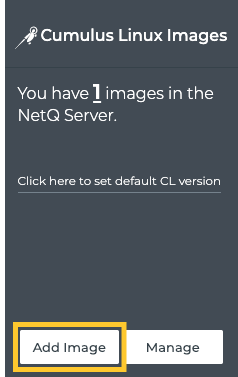
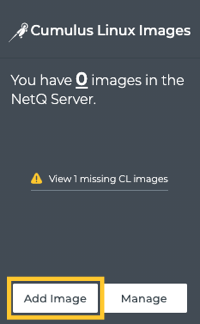
Update access and image import sections

diff --git a/content/cumulus-netq-31/Cumulus-NetQ-Admin-User-Guide/Lifecycle-Management.md b/content/cumulus-netq-31/Cumulus-NetQ-Admin-User-Guide/Lifecycle-Management.md
@@ -11,12 +11,10 @@ LCM enables you to:
 - Manage Cumulus Linux and Cumulus NetQ images in a local repository
 - Configure switch access credentials (required for installations and upgrades)
 - Manage Cumulus Linux switches
-- Perform snapshots of the network state
-- Discover Cumulus Linux switches with and without Cumulus NetQ Agents
-- Install and upgrade Cumulus NetQ (Agents and CLI) on switches
+- Create snapshots of the network state at various times
+- Create Cumulus NetQ configuration profiles
+- Install and upgrade Cumulus NetQ (Agents and CLI) on Cumulus Linux switches with and without Cumulus NetQ Agents
 - Upgrade Cumulus Linux on switches
-
-LCM provides
 
 {{<notice note>}}
 This feature is fully enabled for on-premises deployments and fully disabled for cloud deployments. Contact your local Cumulus Networks sales representative or {{<exlink url="https://support.cumulusnetworks.com/hc/en-us" text="submit a support ticket">}} to activate LCM on cloud deployments.
@@ -24,41 +22,48 @@ This feature is fully enabled for on-premises deployments and fully disabled for
 
 ## Access Lifecycle Management Features
 
-To manage the various lifecycle management features, click {{<img src="https://icons.cumulusnetworks.com/01-Interface-Essential/03-Menu/navigation-menu.svg" height="18" width="18" alt="Main Menu">}} (Main Menu) and select **Upgrade Switches**.
+You can access the lifecycle management features from several places in NetQ. All of them take you to the same location:
 
-The first time you open the Manage Switch Assets view, it provides a summary card for switch inventory, uploaded images, and switch access settings. Additional cards may appear after that based on your activity.
+- Click {{<img src="https://icons.cumulusnetworks.com/01-Interface-Essential/03-Menu/navigation-menu.svg" height="18" width="18" alt="Main Menu">}} (Main Menu) and select **Upgrade Switches**
+- If you have a workbench open:
+    - Click <img src="https://icons.cumulusnetworks.com/05-Internet-Networks-Servers/06-Servers/server-upload.svg" height="18" width="18"/> (Upgrade) in the workbench header, or
+    - When lifecycle management is enabled, click <img src="https://icons.cumulusnetworks.com/03-Computers-Devices-Electronics/09-Hard-Drives/hard-drive-1.svg" height="18" width="18"/> (Switches) in the workbench header, then click **Manage switches**
 
-{{<figure src="/images/netq/lcm-dashboard-300.png" width="700">}}
+The first time you open the Manage Switch Assets view, it provides a summary card for switch inventory, uploaded Cumulus Linux images, uploaded NetQ images, NetQ configuration profiles, and switch access settings. Additional cards appear after that based on your activity.
 
-{{<notice tip>}}
-If you have a workbench open, you can also access this view by clicking <img src="https://icons.cumulusnetworks.com/05-Internet-Networks-Servers/06-Servers/server-upload.svg", height="18", width="18"/> (Upgrade) in the workbench header.
-{{</notice>}}
+{{<figure src="/images/netq/lcm-dashboard-310.png" width="700">}}
 
-## Image Management
+## Manage Cumulus Linux and NetQ Images
 
 You can manage both Cumulus Linux and Cumulus NetQ images with LCM. They are managed in a similar manner.
 
-Cumulus Linux binary images can be uploaded to a local LCM repository for upgrade of your switches. Cumulus NetQ binary images can be uploaded to the local LCM repository for installation or upgrade. You can upload images from an external drive.
+Cumulus Linux binary images can be uploaded to a local LCM repository for upgrade of your switches. Cumulus NetQ debian packages can be uploaded to the local LCM repository for installation or upgrade. You can upload images from an external drive.
 
 The Linux and NetQ images are distinct based on the software version (x.y.z), the CPU architecture (ARM, x86), platform (based on ASIC vendor, Broadcom or Mellanox) and SHA Checksum. When LCM discovers Cumulus Linux switches running NetQ 2.x or later in your network, it extracts the meta data needed to select the appropriate image for a given switch.  Similarly, LCM discovers and extracts the meta data from NetQ images.
+
+{{<figure src="/images/netq/lcm-image-naming-conventions-310.png" width="400">}}
 
 The Cumulus Linux Images and Cumulus NetQ Images cards provide a summary of image status in LCM. They show the total number of images in the repository, a count of missing images (refer to {{<link title="#Lifecycle Management" text="Missing Images">}}), and the starting points for adding and managing your images.
 
 ### Default Cumulus Linux or Cumulus NetQ Version Assignment
 
-You can assign a specific Cumulus Linux or Cumulus NetQ version as the default version to use during installation or upgrade of switches. It is recommended that you choose the  newest version that you intend to install or upgrade on all or the majority of your switches. The default selection can be overridden during individual installation and upgrade job creation if an alternate version is needed for a given set of switches.
+You can assign a specific Cumulus Linux or Cumulus NetQ version as the default version to use during installation or upgrade of switches. It is recommended that you choose the  newest version that you intend to install or upgrade to on all or the majority of your switches. The default selection can be overridden during individual installation and upgrade job creation if an alternate version is needed for a given set of switches.
 
 ### Missing Images
 
 You should upload images for each variant of Cumulus Linux and Cumulus NetQ currently installed on the switches in your inventory if you want to support rolling back to a known good version should an installation or upgrade fail. LCM prompts you to upload any missing images to the repository.
 
-For example, if you have both Cumulus Linux 3.7.3 and 3.7.11 versions, some running on ARM and some on x86 architectures, then LCM verifies the presence of each of these images. If only the 3.7.3 x86, 3.7.3 ARM, and 3.7.11 x86 images are in the repository, LCM would list the 3.7.11 ARM image as missing.
+For example, if you have both Cumulus Linux 3.7.3 and 3.7.11 versions, some running on ARM and some on x86 architectures, then LCM verifies the presence of each of these images. If only the 3.7.3 x86, 3.7.3 ARM, and 3.7.11 x86 images are in the repository, LCM would list the 3.7.11 ARM image as missing. For Cumulus NetQ, you need both the `netq-apps` and `netq-agent` packages for each release.
 
 If you have specified a default Cumulus Linux and/or Cumulus NetQ version, LCM also verifies that the necessary versions of the default image are available based on the known switch inventory, and if not, lists those that are missing.
 
 ### Upload Images
 
-On installation of NetQ 3.x, no images have yet been uploaded to the LCM repository. Begin by adding images that match your current inventory. Then add the image you want to use for upgrading. And finally specify a default image for upgrades, if desired.
+On installation of NetQ 3.x, no images have yet been uploaded to the LCM repository. If you are upgrading from NetQ 3.0.0, the images you have previously added are still present. In general, the flow is:
+
+- For a new install, begin by adding images that match your current inventory
+- Then for either an  install or upgrade, add the images you want to use
+- And finally specify a default image for upgrades, if desired
 
 #### Upload Missing Images
 
@@ -78,17 +83,17 @@ To upload missing images, follow the instructions in the relevant tab:
 
 3. Click {{<img src="https://icons.cumulusnetworks.com/01-Interface-Essential/43-Remove-Add/add-circle.svg" height="18" width="18">}} (Add Image) above the table.
 
-  {{<figure src="/images/netq/lcm-import-image-dialog-300.png" width="250">}}
+  {{<figure src="/images/netq/lcm-import-climage-dialog-310.png" width="250">}}
 
 4. Provide the *.bin* file from an external drive that matches the criteria for the selected image, either by dragging and dropping it onto the dialog or by selecting it from a directory.
 
 5. Click **Import**.
 
-    {{<figure src="/images/netq/lcm-import-image-in-process-300.png" width="250">}}
+    {{<figure src="/images/netq/lcm-import-climage-in-process-310.png" width="250">}}
 
 <div style="padding-left: 18px;">On successful completion, you receive confirmation of the upload.</div>
 
-    {{<figure src="/images/netq/lcm-import-image-success-300.png" width="250">}}
+    {{<figure src="/images/netq/lcm-import-climage-success-310.png" width="250">}}
 
 <div style="padding-left: 18px;">If the upload was not successful, an <em>Image Import Failed</em> message is shown. Close the Import Image dialog and try uploading the file again.</div>
 
@@ -106,7 +111,7 @@ To upload missing images, follow the instructions in the relevant tab:
 
 {{< tab "Cumulus NetQ" >}}
 
-1. On the Cumulus NetQ Images card, click the *View missing NetQ images* link to see what images you need. This opens the list of missing images.
+1. On the NetQ Images card, click the *View missing NetQ images* link to see what images you need. This opens the list of missing images.
 
     {{<figure src="/images/netq/lcm-linux-images-card-at-install-missinglink-300.png" width="200">}}
 
@@ -116,7 +121,7 @@ To upload missing images, follow the instructions in the relevant tab:
 
 3. Click {{<img src="https://icons.cumulusnetworks.com/01-Interface-Essential/43-Remove-Add/add-circle.svg" height="18" width="18">}} (Add Image) above the table.
 
-    {{<figure src="/images/netq/lcm-import-image-dialog-300.png" width="250">}}
+    {{<figure src="/images/netq/lcm-import-climage-dialog-310.png" width="250">}}
 
 4. Provide the *.bin* file from an external drive that matches the criteria for the selected image, either by dragging and dropping it onto the dialog or by selecting it from a directory.
 
@@ -148,23 +153,23 @@ To upload missing images, follow the instructions in the relevant tab:
 
 To upload the Cumulus Linux or Cumulus NetQ images that you want to use for upgrade:
 
-1. Click **Add Image** on the Cumulus Linux Images or Cumulus NetQ Images card.
+1. Click **Add Image** on the Cumulus Linux Images or NetQ Images card.
 
-    {{<figure src="/images/netq/lcm-linux-images-card-at-install-addimage-300.png" width="200">}}
-
-    <!-- add netq card -->
+    {{<img src="/images/netq/lcm-linux-images-card-at-install-addimage-300.png" width="200">}}    {{<img src="/images/netq/lcm-netq-images-card-at-install-addimage-310.png" width="200">}}
 
 2. Provide an image from an external drive, either by dragging and dropping it onto the dialog or by selecting it from a directory.
 
+    {{<img src="/images/netq/lcm-import-climage-dialog-310.png" width="250">}}    {{<img src="/images/netq/lcm-import-netqimage-dialog-310.png" width="250">}}
+
 3. Click **Import**.
 
-4. Click **Done**.
+4. Monitor the progress until it completes. Click **Done**.
 
 5. Repeat Steps 1-4 to upload additional images as needed.
 
     For example, if you are upgrading switches with different ASIC vendors or CPU architectures, you will need more than one image.
 
-#### Specify a Default Image for Upgrade
+#### Specify a Default Upgrade Image
 
 Lifecycle management does not have a default Cumulus Linux Cumulus NetQ image specified automatically. You must specify the image that is appropriate for your network.
 
@@ -234,7 +239,7 @@ To remove images:
 
 4. Click <img src="https://icons.cumulusnetworks.com/01-Interface-Essential/23-Delete/bin-1.svg" height="18" width="18"/>.
 
-## Credential Management
+## Manage Switch Access Credentials
 
 Switch access credentials are needed for performing upgrades. You can choose between basic authentication (SSH password) and SSH (Public/Private key) authentication. These credentials apply to all switches. If you have switches with varying access credentials you will have to work with one set at a time and change the credentials as needed.
 
@@ -329,7 +334,7 @@ Refer to {{<link title="#Specify Switch Credentials" text="Specify Switch Creden
 
 5. Click **Save**.
 
-## Switch Management
+## Manage Switches
 
 This lifecycle management feature provides an inventory of switches that have been automatically discovered by NetQ and are available for software installation or upgrade through NetQ. This includes all Cumulus Linux switches with or without Cumulus NetQ Agent 2.4 or later installed in your network. You assign network roles to switches and select switches for software installation and upgrade from this inventory listing.
 
@@ -344,7 +349,6 @@ To view a list of all switches known to LCM, click **Manage** on the Switches ca
 Review the list, filtering as needed (click {{<img src="https://icons.cumulusnetworks.com/01-Interface-Essential/15-Filter/filter-1.svg" height="18" width="18" alt="Filter Switch List">}}) to determine if the switches you want to upgrade are included.
 
 If the switches you are looking to upgrade are not present in the final list, you can use the Switch Discovery feature to locate them and include them in the LCM inventory.
-
 
 After all of the switches you want to upgrade are contained in the list, you can assign roles to them.
 
@@ -432,7 +436,7 @@ To export the switch listing:
 
     {{<figure src="/images/netq/export-data-dialog-300.png" width="250">}}
 
-## Network Snapshot and Compare
+## Create and Compare Network Snapshots
 
 Creating and comparing network snapshots can be used at various times; typically when you are upgrading or changing the configuration of your switches in some way. The instructions here describe how to create and compare network snapshots at any time. Refer to {{<link title="#Image Installation and Upgrade" text="Image Installation and Upgrade">}} to see how snapshots are automatically created in that workflow to validate that the network state has not changed after an upgrade.
 
@@ -594,7 +598,7 @@ To remove an existing snapshot:
 
     Click **Back** or **Choose Action** to cancel the deletion of your selected snapshot(s).
 
-## Cumulus NetQ Installation or Upgrade
+## Install or Upgrade Cumulus NetQ
 
 The LCM feature enables you to upgrade switches with older versions of NetQ Agent and to load NetQ onto switches that do not currently have NetQ installed.
 
@@ -662,7 +666,7 @@ Click **Remove** if you decide to use a different file or want to use IP address
 
 After all of the switches you want to upgrade are contained in the list, you can assign roles to them.
 
-## Cumulus Linux Upgrade
+## Upgrade Cumulus Linux
 
 The workflow for installation and upgrade of Cumulus Linux using LCM is to: select switches, choose options, run pre-checks, view job preview, begin job, monitor job, review snapshot comparison and analyze as needed. Up to five jobs can be run simultaneously; however, a given switch can only be contained in one running job at a time.
 
